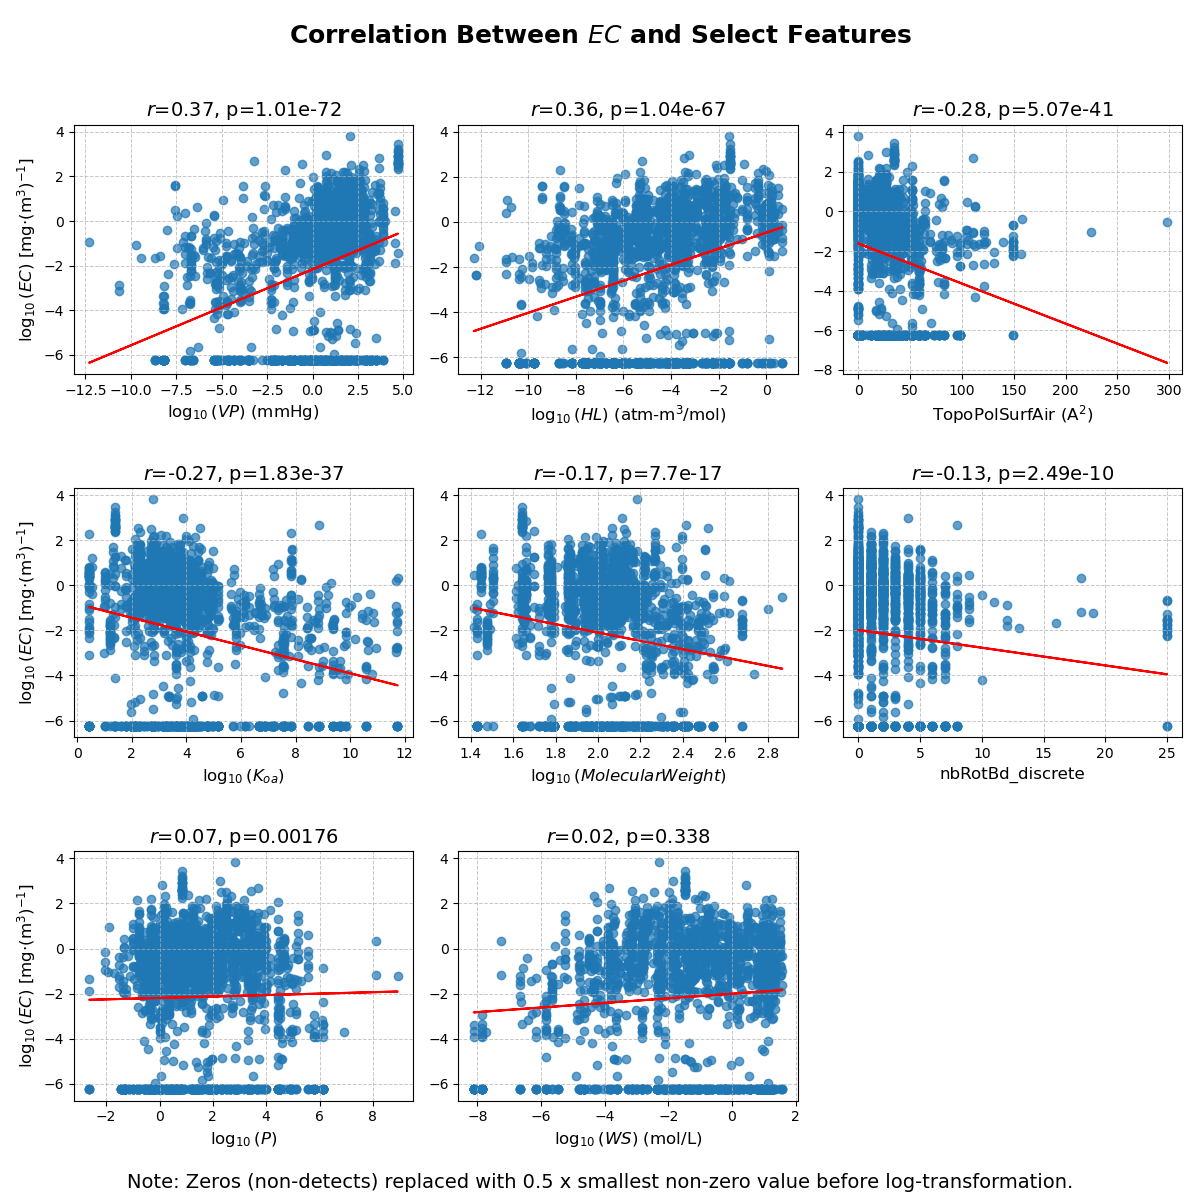
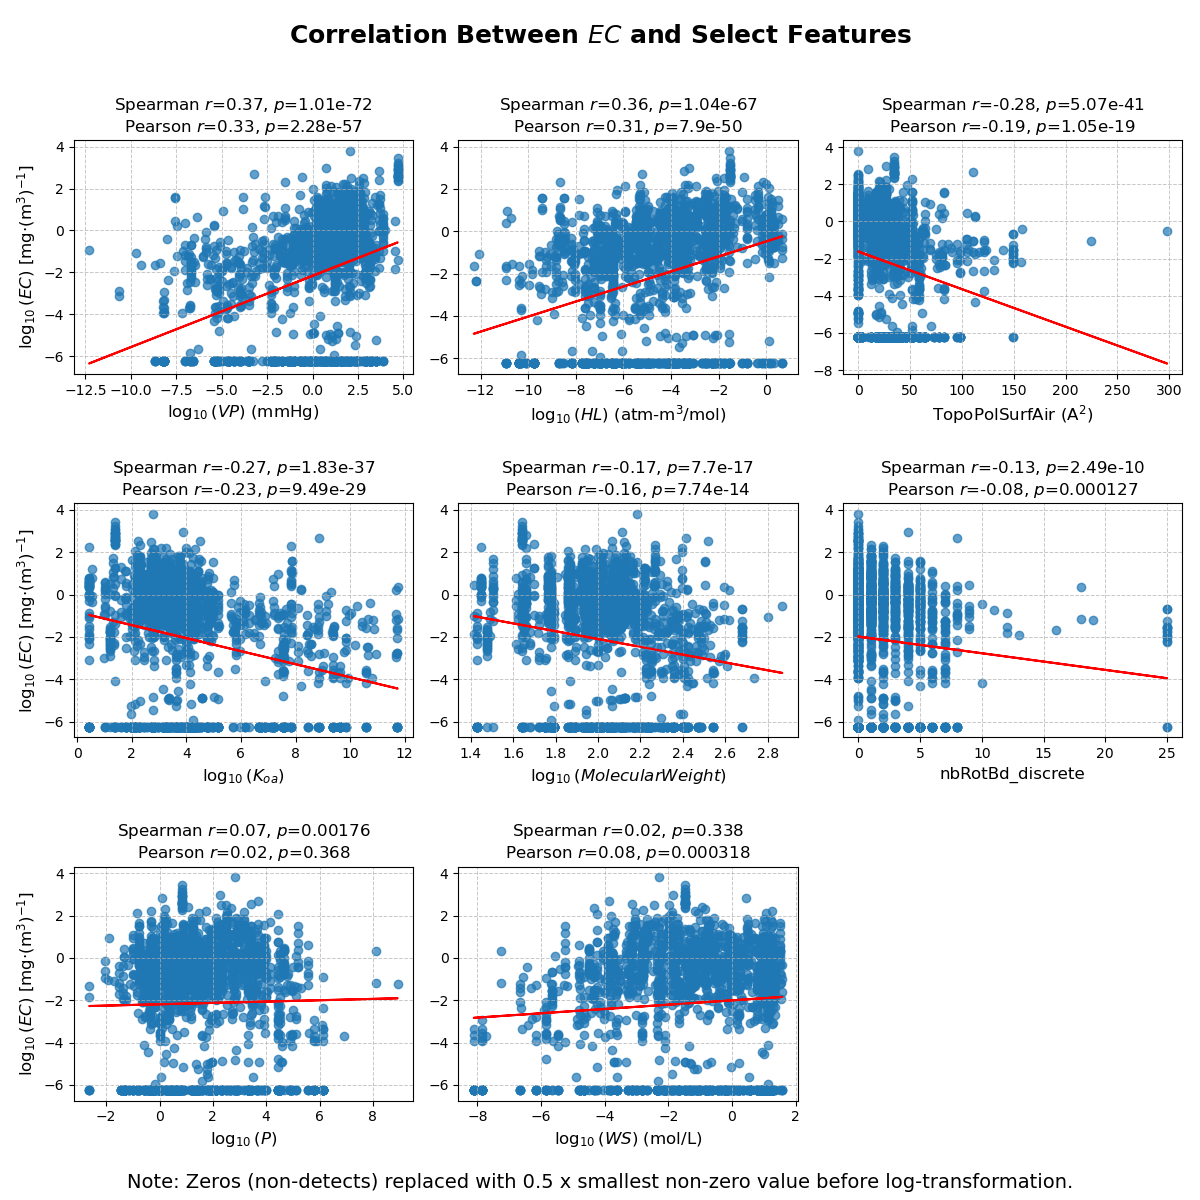
Refactor correlation figures: Include both spearmanr and pearsonr

diff --git a/plot.py b/plot.py
@@ -6,7 +6,6 @@ import numpy as np
 from scipy.stats import pearsonr, spearmanr
 
 import matplotlib.pyplot as plt
-from matplotlib.ticker import MultipleLocator
 from matplotlib_venn import venn2
 import seaborn as sns
 
@@ -559,16 +558,39 @@ def correlation_by_group(merged, group_col):
     for group in unique_groups:
         subset = merged.loc[merged[group_col] == group]
         if len(subset) > 1:  # Avoid issues with insufficient data
-            r, p = spearmanr(subset['feature_value'], subset['target_value'])
-            corr_data.append({group_col: group, 'r': r, 'p': p})
+            spearman_r, spearman_p = spearmanr(
+                subset['feature_value'], 
+                subset['target_value']
+                )
+            pearson_r, pearson_p = pearsonr(
+                subset['feature_value'], 
+                subset['target_value']
+                )
+            corr_data.append({
+                group_col: group, 
+                'spearman_r': spearman_r, 
+                'spearman_p': spearman_p,
+                'pearson_r': pearson_r,
+                'pearson_p': pearson_p
+            })
         else:
-            corr_data.append({group_col: group, 'r': float('nan'), 'p': float('nan')})
+            corr_data.append({
+                group_col: group, 
+                'spearman_r': float('nan'), 
+                'spearman_p': float('nan'),
+                'pearson_r': float('nan'), 
+                'pearson_p': float('nan')
+            })
 
     # Convert to DataFrame for sorting
     corr_df = pd.DataFrame(corr_data)
 
-    # Sort by |r| (absolute value of correlation)
-    corr_df = corr_df.sort_values(by='r', key=lambda x: abs(x), ascending=False)
+    # Sort by |spearman_r| (absolute value of Spearman correlation)
+    corr_df = corr_df.sort_values(
+        by='spearman_r', 
+        key=lambda x: abs(x), 
+        ascending=False
+        )
 
     return corr_df
 #endregion
@@ -631,21 +653,23 @@ def format_axes(
     title_prefix = '' if title_prefix is None else title_prefix
 
     # Get correlation stats for the title
-    r = corr_df.loc[corr_df[group_col] == group, 'r'].values[0]
-    p = corr_df.loc[corr_df[group_col] == group, 'p'].values[0]
+    row = corr_df.loc[corr_df[group_col] == group]
+    spearman_r = row['spearman_r'].values[0]
+    spearman_p = row['spearman_p'].values[0]
+    pearson_r = row['pearson_r'].values[0]
+    pearson_p = row['pearson_p'].values[0]
 
-    # Title with stats
-    ax.set_title(f'{title_prefix}\n$r$={r:.2f}, p={p:.3g}', fontsize=14)
+    # Format the title with both coefficients
+    title = (f'$\mathbf{{{title_prefix}}}$\n'
+             f'Spearman $r$={spearman_r:.2f}, $p$={spearman_p:.3g}\n'
+             f'Pearson $r$={pearson_r:.2f}, $p$={pearson_p:.3g}')
 
+    ax.set_title(title, fontsize=12)
     ax.set_xlabel(xlabel, fontsize=12)
     ax.set_ylabel(ylabel, fontsize=12)
 
     ax.set_xlim(xlim)
     ax.set_ylim(ylim)
-    
-    # Set even-valued tick labels
-    # ax.xaxis.set_major_locator(MultipleLocator(2))
-    # ax.yaxis.set_major_locator(MultipleLocator(2))
 #endregion
 
 #region: finalize_figure_layout
